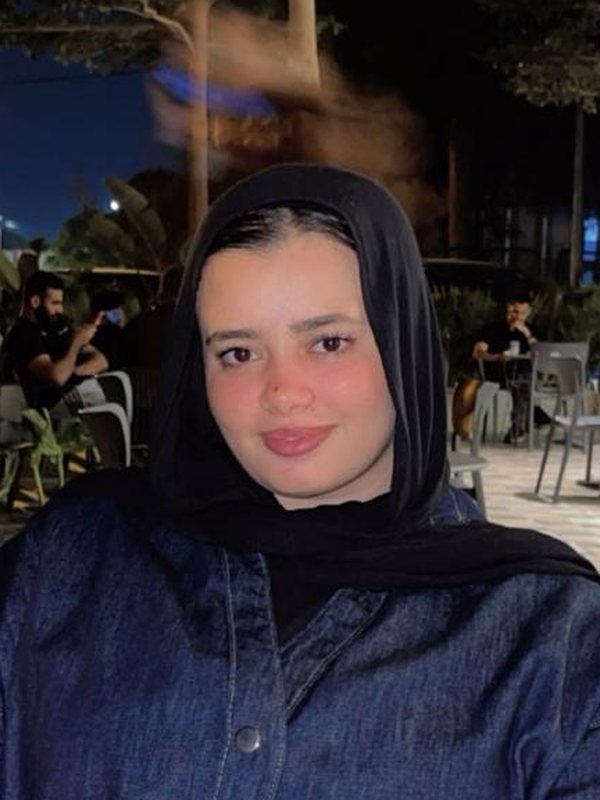
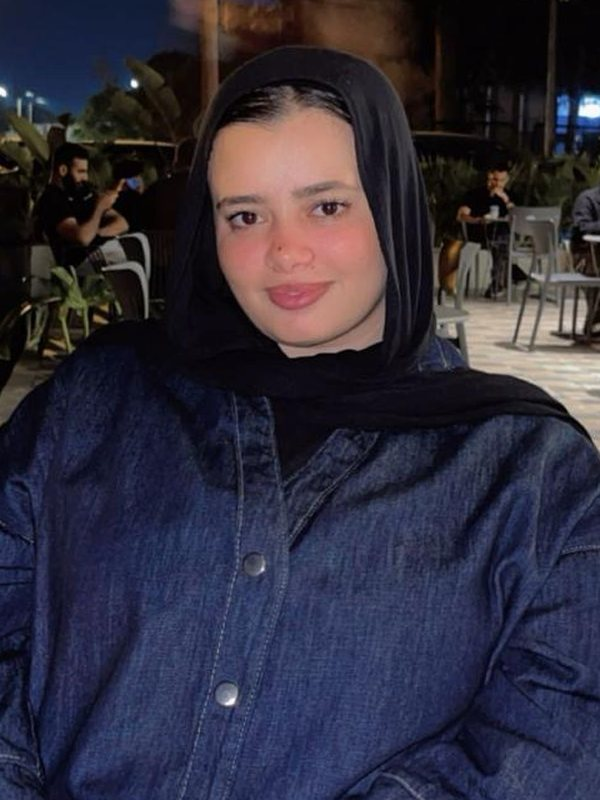
Team: recrop Zeinab so her face clears the name strip; smaller name strip on phones
Claude-Session: https://claude.ai/code/session_01VfZauQVkBUuEmbnFtD2WhH

diff --git a/v2.css b/v2.css
@@ -180,3 +180,5 @@ body{counter-reset:sec}
 .eco-day.is-part{margin-top:-.6rem}
 .eco-day.is-part .eco-num span{width:16px;height:16px;margin:16px;border-width:3px;background:var(--leaf);border-color:var(--emerald)}
 @media (max-width:720px){.eco-day.is-part .eco-num span{width:14px;height:14px;margin:11px}}
+/* خلية النحل على الموبايل: شريط الاسم أصغر وأوطى عشان ما يغطيش الوش */
+@media (max-width:620px){.hex-cap{inset-block-end:15%;padding:.55rem .3rem .15rem;background:linear-gradient(transparent,rgba(5,37,73,.92) 35%)}.hex-cap b{font-size:.74rem}.hex-cap span{font-size:.6rem}}
